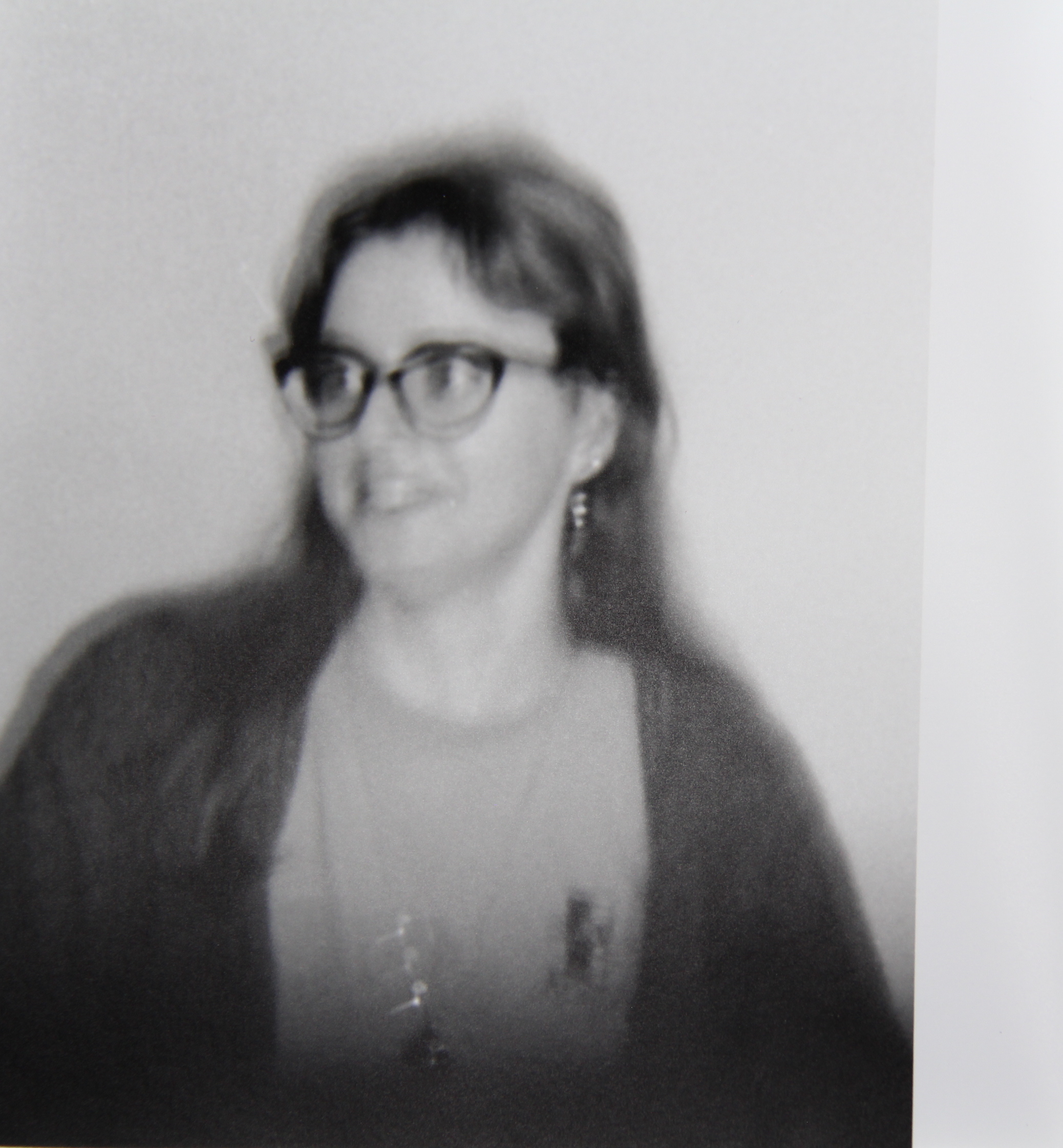
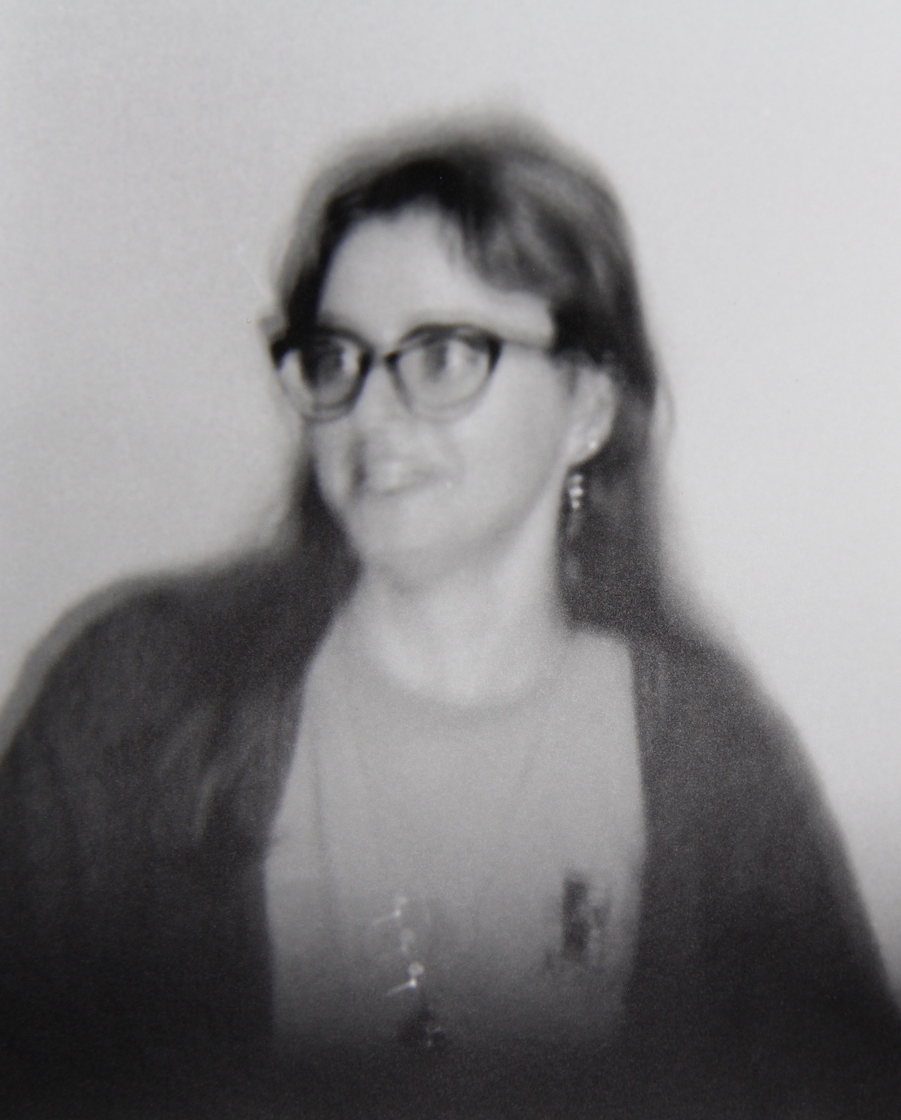
push

diff --git a/girls-on-film/track6/assets/css/styles.css b/girls-on-film/track6/assets/css/styles.css
@@ -5,23 +5,18 @@ body {
     }
 
     .box{
-        margin-left: 10%;
-        margin-top: 10%;
+        margin-left: 15%;
+        margin-top: 5%;
     }
     
     .friends img{
         width: 50%;
-        margin-left: 20%;
-        margin-top: 5%;
+        margin-left: 40%;
+        margin-top: 4%;
 
     }
 
-     .arrow{
-            width: 1%;
-            height: 20%;
-            margin-left: 5%;
-        
-    }
+  
     
     
 

diff --git a/girls-on-film/track5/index.html b/girls-on-film/track5/index.html
@@ -24,9 +24,9 @@
         She shared a room with Mary, and liked to have her picture taken.</h1>
     </div>
 
-    <div class="arrow">
+    <div class="next5">
     <a href="../track6/index.html">
-    <img src="assets/img/IMG_arrow5.png"
+    <img src="assets/img/next5.png"
     </a>
     </div>
 

diff --git a/girls-on-film/track7/assets/css/styles.css b/girls-on-film/track7/assets/css/styles.css
@@ -7,13 +7,13 @@ body {
     .wine img{
         width: 40%;
         margin-left: 10%;
-        margin-top: 5%;
+        margin-top: 3%;
         
     }
 
     .box{
         margin-left: 30%;
-        margin-top: 10%;
+        margin-top: 4%;
         margin-right: 5%;
     }
 

diff --git a/girls-on-film/track5/assets/css/styles.css b/girls-on-film/track5/assets/css/styles.css
@@ -6,20 +6,16 @@ body {
 }
     
 .ella img{
-    width: 65%;
-    margin-right: 10%;    
+    width: 45%;
+    margin-left: 5%;    
 }
 
 .box{
     margin-left: 20%;
+    margin-bottom: 3%;
 }
 
-.arrow{
-    width: 1%;
-    height: 20%;
-    margin-left: 5%;
 
-}
     
     
 

diff --git a/girls-on-film/track6/index.html b/girls-on-film/track6/index.html
@@ -26,9 +26,9 @@
       <img src="assets/img/IMG_friends.JPG">
     </div>
 
-    <div class="arrow">
+    <div class="next">
       <a href="../track7/index.html">
-      <img src="assets/img/IMG_arrow6.png"
+      <img src="assets/img/next6.png"
       </a>
       </div>
 

diff --git a/girls-on-film/track8/assets/css/styles.css b/girls-on-film/track8/assets/css/styles.css
@@ -6,14 +6,13 @@ body {
 
 .box{
     margin-left: 5%;
-    margin-top: 5%;
+    margin-top: 2%;
     margin-right: 30%;
 }
 
 .siobhan2 img{
-    width: 40%;
-    margin-left: 40%;
-    margin-top: 3%;
+    width: 30%;
+    margin-left: 60%;
     
 }
 

diff --git a/girls-on-film/track8/index.html b/girls-on-film/track8/index.html
@@ -25,6 +25,10 @@
       <img src="assets/img/IMG_siobhan2.JPG">
     </div>
 
+    <div class="next">
+        <a href="../track9/index.html">
+        <img src="assets/img/next8.png"
+        </a>
 
 <script src="assets/js/app.js"></script>
   </body>

diff --git a/girls-on-film/track9/index.html b/girls-on-film/track9/index.html
@@ -18,6 +18,11 @@
       <img src="assets/img/IMG_mary2.JPG">
     </div>
 
+    <div class="next">
+        <a href="../track10/index.html">
+        <img src="assets/img/next9.png"
+        </a>
+
 
 <script src="assets/js/app.js"></script>
   </body>

diff --git a/girls-on-film/track7/index.html b/girls-on-film/track7/index.html
@@ -26,6 +26,11 @@
   
       </div>
 
+      <div class="next">
+          <a href="../track8/index.html">
+          <img src="assets/img/next7.png"
+          </a>
+
 
 <script src="assets/js/app.js"></script>
   </body>

diff --git a/girls-on-film/track4/index.html b/girls-on-film/track4/index.html
@@ -25,6 +25,12 @@
     </div>
 
 
+  <div class="next4">
+      <a href="../track5/index.html">
+      <img src="assets/img/next4.png"
+      </a>
+
+
 <script src="assets/js/app.js"></script>
   </body>
 </html>

diff --git a/girls-on-film/track4/assets/css/styles.css b/girls-on-film/track4/assets/css/styles.css
@@ -4,8 +4,9 @@ body {
 }
 
 .mary2 img{
-    width: 70%;
-    margin-left: 20%;
-    margin-top: 5%;
+    width: 50%;
+    margin-left: 42%;
+    margin-top: 4%;
+    margin-bottom: 6%;
     
 }

diff --git a/girls-on-film/track9/assets/css/styles.css b/girls-on-film/track9/assets/css/styles.css
@@ -3,8 +3,8 @@ body {
 }
 
 .mary2 img{
-    width: 30%;
-    margin-left: 20%;
+    width: 40%;
+    margin-left: 35%;
     margin-right: 15%;
     margin-top: 5%;
     margin-bottom: 5%;
